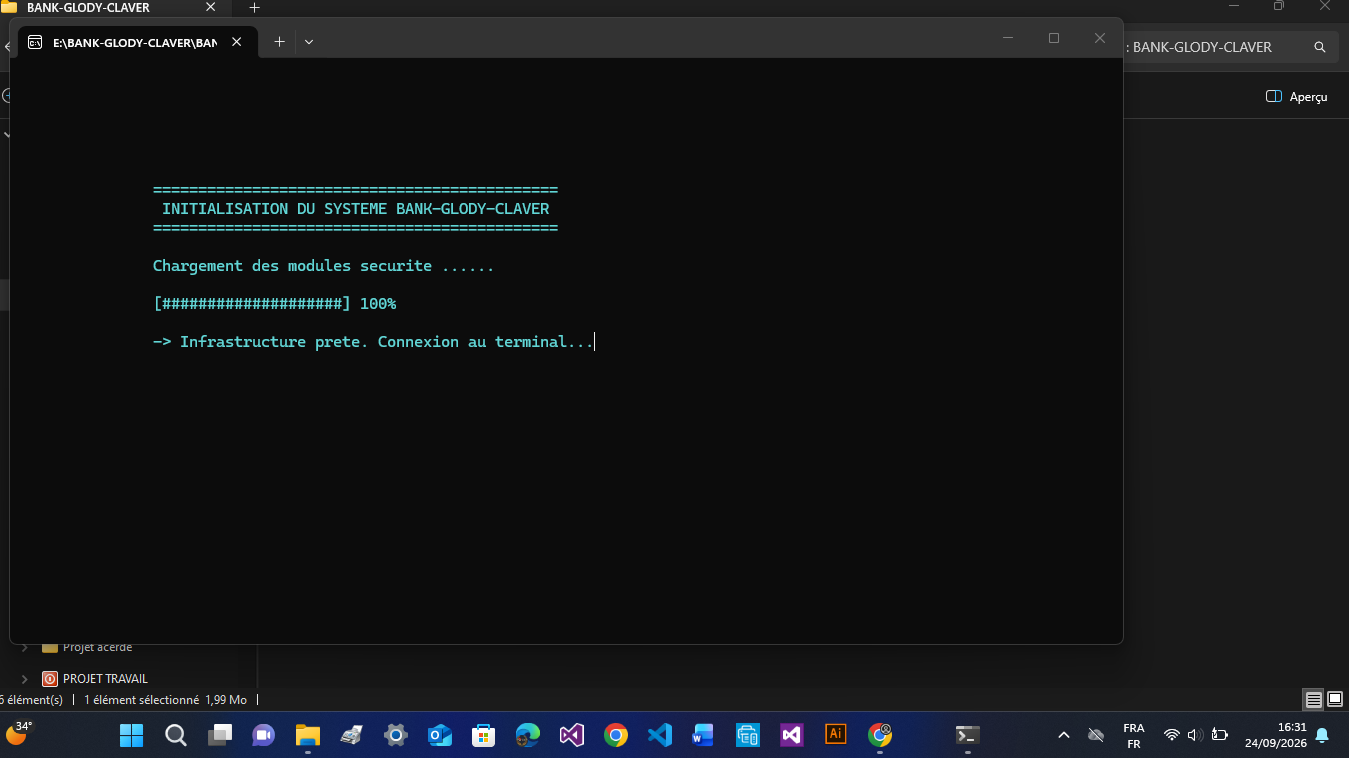
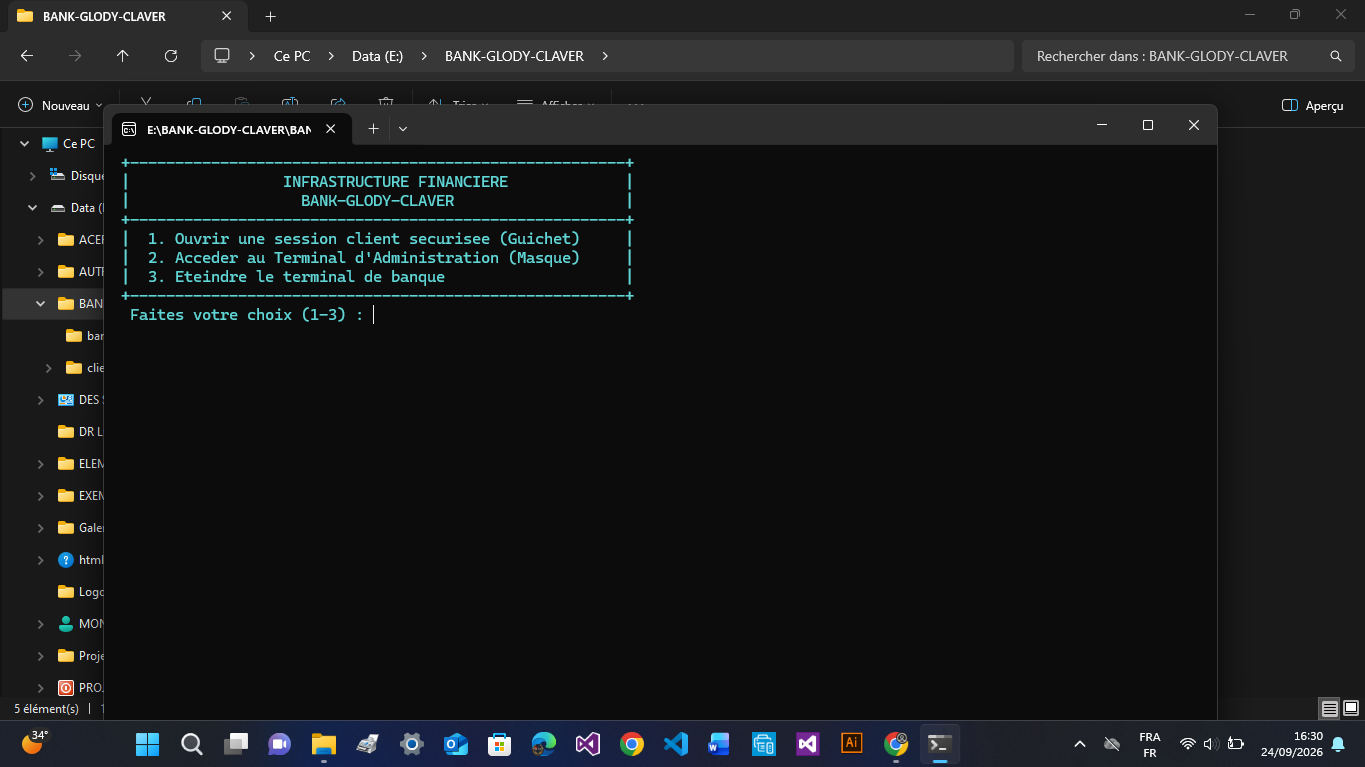
Rajout

diff --git a/index.html b/index.html
@@ -3095,7 +3095,7 @@
                                                                         <p>Web</p>
                                                                         <div>
                                                                                 <a href="images/portfolio/Site-web/web1.png" class="link-preview btn-trigger-lightbox" title="Voir"><i class="fa fa-search"></i></a>
-                                                                                <a href="mailto:glodyclaver@gmail.com" class="link-details" title="Ouvrir le lien externe" target="_blank" rel="noopener noreferrer"><i class="fa fa-link"></i></a>
+                                                                                <a href="mailto:glodyclaver@gmail.com" class="link-details" title="Ouvrir le lien externe" target="_blank" rel="noopener noreferrer"><i class="fa fa-envelope"></i></a>
                                                                         </div>
                                                                 </div>
                                                         </div>
@@ -3281,26 +3281,10 @@
                                                         </div>
                                                 </div>
 
-                                                
                                                 <!-- Projet 17 : ANALYSTE PROGRAMMEUR - Logiciel -->
                                                 <div class="portfolio-item filter-card">
                                                         <div class="portfolio-wrap">
-                                                                <img src="images/portfolio/Logiciel/logi6-1.png" alt="Projet 17">
-                                                                <div class="portfolio-info">
-                                                                        <h4><a href="#">ANALYSTE PROGRAMMEUR</a></h4>
-                                                                        <p>Système Multi-Currency</p>
-                                                                        <div>
-                                                                                <a href="images/portfolio/Logiciel/logi6-1.png" class="link-preview btn-trigger-lightbox" title="Voir"><i class="fa fa-search"></i></a>
-                                                                                <a href="https://github.com/glodyclaver-ui/BANK-GLODY-CLAVER-C-" class="link-details" title="Consulter la source" target="_blank" rel="noopener noreferrer"><i class="fa fa-github"></i></a>
-                                                                        </div>
-                                                                </div>
-                                                        </div>
-                                                </div>
-
-                                                <!-- Projet 18 : ANALYSTE PROGRAMMEUR - Logiciel -->
-                                                <div class="portfolio-item filter-card">
-                                                        <div class="portfolio-wrap">
-                                                                <img src="images/portfolio/Logiciel/logi3-1.png" alt="Projet 18">
+                                                                <img src="images/portfolio/Logiciel/logi3-1.png" alt="Projet 17">
                                                                 <div class="portfolio-info">
                                                                         <h4><a href="#">ANALYSTE PROGRAMMEUR</a></h4>
                                                                         <p>Logiciel</p>
@@ -3312,10 +3296,10 @@
                                                         </div>
                                                 </div>
 
-                                                <!-- Projet 19 : UX-UI DESIGNER - Web -->
+                                                <!-- Projet 18 : UX-UI DESIGNER - Web -->
                                                 <div class="portfolio-item filter-card">
                                                         <div class="portfolio-wrap">
-                                                                <img src="images/portfolio/Site-web/web2.png" alt="Projet 19">
+                                                                <img src="images/portfolio/Site-web/web2.png" alt="Projet 18">
                                                                 <div class="portfolio-info">
                                                                         <h4><a href="#">UX-UI DESIGNER</a></h4>
                                                                         <p>Web</p>
@@ -3327,10 +3311,10 @@
                                                         </div>
                                                 </div>
 
-                                                <!-- Projet 20 : UX-UI DESIGNER - Web -->
+                                                <!-- Projet 19 : UX-UI DESIGNER - Web -->
                                                 <div class="portfolio-item filter-card">
                                                         <div class="portfolio-wrap">
-                                                                <img src="images/portfolio/Site-web/web3.png" alt="Projet 20">
+                                                                <img src="images/portfolio/Site-web/web3.png" alt="Projet 19">
                                                                 <div class="portfolio-info">
                                                                         <h4><a href="#">UX-UI DESIGNER</a></h4>
                                                                         <p>Web</p>
@@ -3342,10 +3326,10 @@
                                                         </div>
                                                 </div>
 
-                                                <!-- Projet 21 : UX-UI DESIGNER - Web -->
+                                                <!-- Projet 20 : UX-UI DESIGNER - Web -->
                                                 <div class="portfolio-item filter-card">
                                                         <div class="portfolio-wrap">
-                                                                <img src="images/portfolio/Site-web/web4.png" alt="Projet 21">
+                                                                <img src="images/portfolio/Site-web/web4.png" alt="Projet 20">
                                                                 <div class="portfolio-info">
                                                                         <h4><a href="#">UX-UI DESIGNER</a></h4>
                                                                         <p>Web</p>
@@ -3357,16 +3341,31 @@
                                                         </div>
                                                 </div>
 
-                                                <!-- Projet 22 : UX-UI DESIGNER - Web -->
+                                                <!-- Projet 21 : UX-UI DESIGNER - Web -->
                                                 <div class="portfolio-item filter-card">
                                                         <div class="portfolio-wrap">
-                                                                <img src="images/portfolio/Site-web/web5.png" alt="Projet 22">
+                                                                <img src="images/portfolio/Site-web/web5.png" alt="Projet 21">
                                                                 <div class="portfolio-info">
                                                                         <h4><a href="#">UX-UI DESIGNER</a></h4>
                                                                         <p>Web</p>
                                                                         <div>
                                                                                 <a href="images/portfolio/Site-web/web5.png" class="link-preview btn-trigger-lightbox" title="Voir"><i class="fa fa-search"></i></a>
-                                                                                <a href="mailto:glodyclaver@gmail.com" class="link-details" title="Plus de détails"><i class="fa fa-envelope"></i></a>
+                                                                                <a href="https://youtu.be/4iF8q7esQqU?feature=shared" class="link-details" title="Plus de détails"><i class="fa fa-link"></i></a>
+                                                                        </div>
+                                                                </div>
+                                                        </div>
+                                                </div>
+
+                                                <!-- Projet 22 : UX-UI DESIGNER - Web -->
+                                                <div class="portfolio-item filter-card">
+                                                        <div class="portfolio-wrap">
+                                                                <img src="images/portfolio/Site-web/web7.png" alt="Projet 22">
+                                                                <div class="portfolio-info">
+                                                                        <h4><a href="#">UX-UI DESIGNER</a></h4>
+                                                                        <p>Web</p>
+                                                                        <div>
+                                                                                <a href="images/portfolio/Site-web/web7.png" class="link-preview btn-trigger-lightbox" title="Voir"><i class="fa fa-search"></i></a>
+                                                                                <a href="https://youtu.be/4iF8q7esQqU?feature=shared" class="link-details" title="Plus de détails"><i class="fa fa-link"></i></a>
                                                                         </div>
                                                                 </div>
                                                         </div>
@@ -3375,28 +3374,13 @@
                                                 <!-- Projet 23 : UX-UI DESIGNER - Web -->
                                                 <div class="portfolio-item filter-card">
                                                         <div class="portfolio-wrap">
-                                                                <img src="images/portfolio/Site-web/web7.png" alt="Projet 23">
-                                                                <div class="portfolio-info">
-                                                                        <h4><a href="#">UX-UI DESIGNER</a></h4>
-                                                                        <p>Web</p>
-                                                                        <div>
-                                                                                <a href="images/portfolio/Site-web/web7.png" class="link-preview btn-trigger-lightbox" title="Voir"><i class="fa fa-search"></i></a>
-                                                                                <a href="mailto:glodyclaver@gmail.com" class="link-details" title="Plus de détails"><i class="fa fa-envelope"></i></a>
-                                                                        </div>
-                                                                </div>
-                                                        </div>
-                                                </div>
-
-                                                <!-- Projet 24 : UX-UI DESIGNER - Web -->
-                                                <div class="portfolio-item filter-card">
-                                                        <div class="portfolio-wrap">
-                                                                <img src="images/portfolio/Site-web/web6.png" alt="Projet 24">
+                                                                <img src="images/portfolio/Site-web/web6.png" alt="Projet 23">
                                                                 <div class="portfolio-info">
                                                                         <h4><a href="#">UX-UI DESIGNER</a></h4>
                                                                         <p>Web</p>
                                                                         <div>
                                                                                 <a href="images/portfolio/Site-web/web6.png" class="link-preview btn-trigger-lightbox" title="Voir"><i class="fa fa-search"></i></a>
-                                                                                <a href="mailto:glodyclaver@gmail.com" class="link-details" title="Plus de détails"><i class="fa fa-envelope"></i></a>
+                                                                                <a href="https://github.com/glodyclaver-ui/Matrix-skull-animation" class="link-details" title="Plus de détails"><i class="fa fa-link"></i></a>
                                                                         </div>
                                                                 </div>
                                                         </div>
